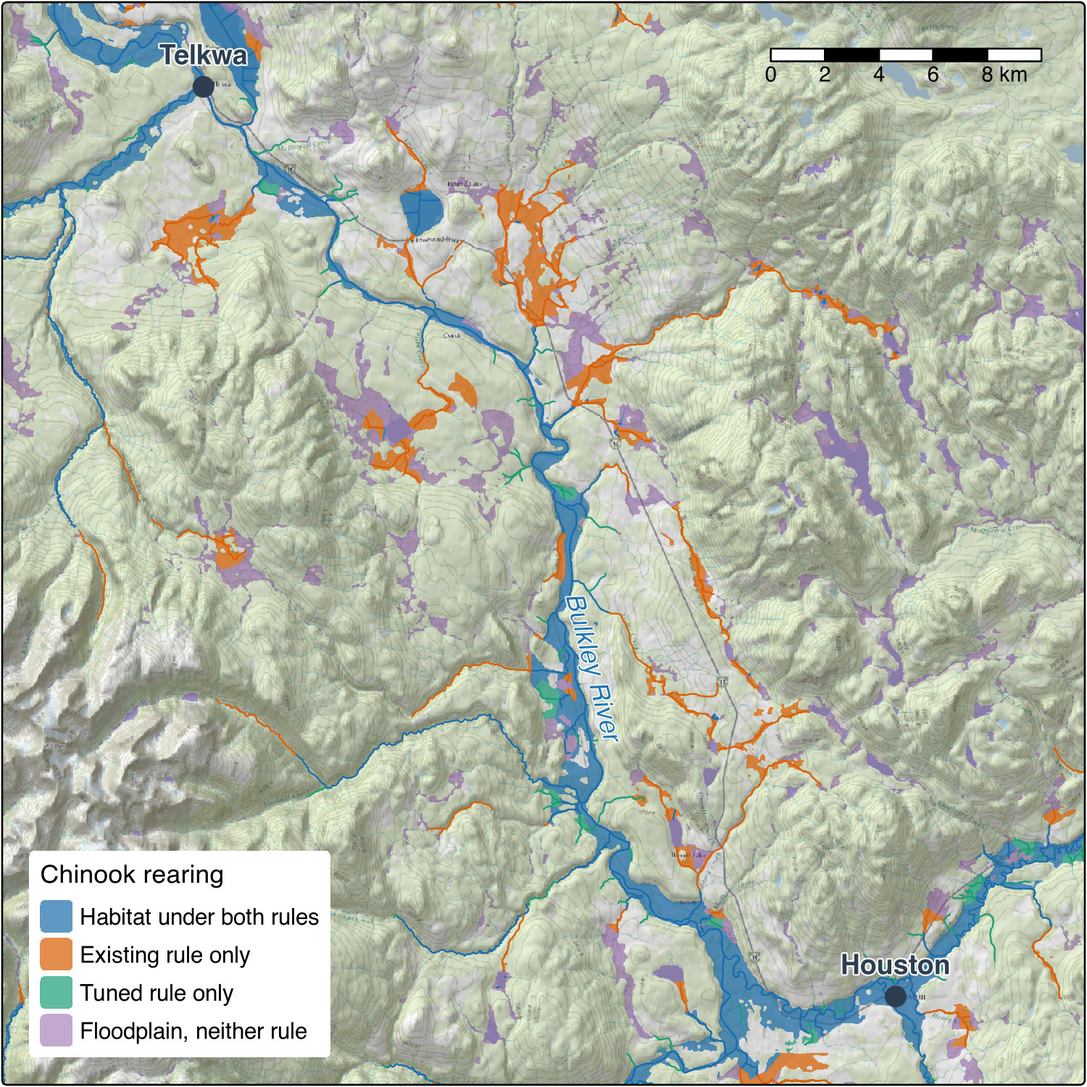
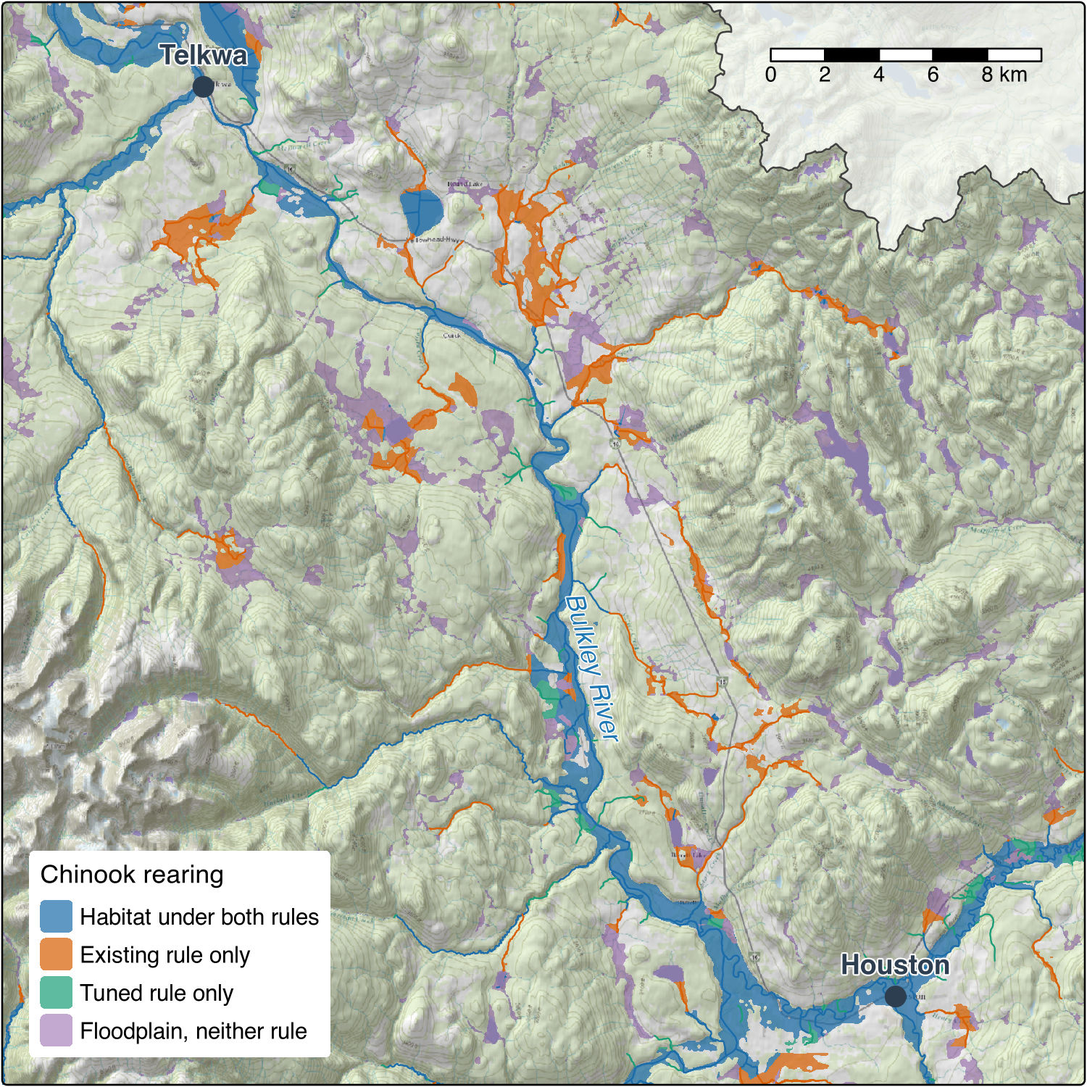
Code-check round 5 fixes: fade the knowledge map too; town markers from the committed helper (#65)
The knowledge map's floodplain stops at the Bulkley and Morice groups, so its
Babine corner now fades like link's, through one helper both scripts share. The
town inset was 4 km, which left Telkwa and Houston out of a fresh draw; at 2.5 km
both maps draw them. link's caption calls the purple reaches' barrier a documented dam.

Claude-Session: https://claude.ai/code/session_015Jk6BLCJR6akr2dUiE5A8m

Changed region(s): [[0.644, 0.0, 1.0, 0.2453], [0.7053, 0.9813, 0.736, 1.0]]

diff --git a/planning/archive/2026-11-issue-65-open-source-knowledge-figures/review-round5.md b/planning/archive/2026-11-issue-65-open-source-knowledge-figures/review-round5.md
@@ -1,0 +1,65 @@
+# Code check, round 5, #65
+
+Reviewed the round 4 fix (b1ba659) and re-checked the whole revision `git diff fcb1990..HEAD` on 2026-11-02. No database was reachable, so the link script was read but not run. Public sources used: bcdata (`FWA_WATERSHED_GROUPS_POLY`), the stac-floodplains-bc API at images.a11s.one, knowledge's local `data/compare/gpkg/CH_rear.gpkg`, and the towns cache in this session's scratchpad.
+
+## Checklist read
+
+- `code-check-python.md`: in full. The diff has no Python.
+- `code-check.md`: the prose of every H3 under `## Mechanisms`, without table rows or evidence blocks.
+- `code-check-spatial.md`: in full for "`st_intersection()` / `st_difference()` return a GEOMETRYCOLLECTION", "`st_union()` fails after `st_transform()` of a source mixing XY and XYZ rings", "`sf::st_read()` promotes a mixed POLYGON/MULTIPOLYGON layer", "A GDAL failure partway through `sf::st_read()`" and "A name is not a key". The other headings were read by index line only.
+- `code-check-r.md` and `code-check-shell.md`: index only. The fix adds no R idiom beyond sf calls, and no shell.
+
+## Findings
+
+- **[severity: fragile]** scripts/figure_knowledge-bulkley.R:34-35 and 47, shown in content/project/open_source_software/knowledge_bulkley.jpg. The knowledge map has the same gap that round 4 found on the link map, in the floodplain layer.
+  - **What it reads:** the floodplain is read only for `groups <- c("bulk", "morr")`, but the window is the link map's: BULK 1363.9 km², MORR 146.3 km² and BABL 89.8 km² (bcdata, 1600.0 km² in all).
+  - **No BABL floodplain exists:** the catalogue has no BABL item. `items/babl_all_ff04` returns 404, while `bulk_all_ff04` and `morr_all_ff04` return 200, and stac_floodplains_bc's `floodplains_coverage.png` shows no BABL.
+  - **What the map shows:** the top-right corner has no fill. Under the legend entry "Floodplain, neither rule", a reader takes that as ground that is not floodplain. In fact it is ground the catalogue does not map.
+  - **The lines are not affected:** knowledge's segments in the window include 1,473 BABL segments. All of them are FALSE for `rearing_default`, `rearing_tuned` and `accessible`, so leaving them undrawn agrees with the data.
+  - **Not measured:** how much floodplain the corner would hold. The corner has lakes and flats, and purple patches on the BULK side run up to the divide.
+  - **Possible fix:** the same 65% white fade outside BULK and MORR, read from fwapg as in the link script, with the link caption's sentence added to this caption. The page's two maps would then match.
+  - **Rule:** code-check.md "A guard's scope, escape hatches, and remedies" (a literal set, here the floodplain groups, covers what the data was expected to hold, not the window it is drawn in)
+
+- **[severity: fragile]** content/project/open_source_software/knowledge_bulkley.jpg against scripts/figure_helpers.R:47. The committed knowledge map was not drawn by the committed helper, so the re-run that the finding above needs will change it.
+  - **The image:** it shows town dots and labels for Telkwa and Houston.
+  - **The helper:** `towns_of()` keeps only towns inside `st_buffer(w, -4000)`. That inset runs x 929000–961000 and y 1045000–1077000.
+  - **Where the towns are:** from the towns cache, Telkwa is at y 1077872, 0.9 km outside the inset, and Houston is at y 1044262, 0.7 km outside it. Every cache in the session scratchpads has the same coordinates.
+  - **Measured:** running the committed filter on the cache returns 0 towns. That is why `link_bulkley.jpg`, drawn by this helper at b1ba659, has no town markers.
+  - **Where the image's version came from:** the helper and the JPEG were committed together in 63f90d5. The post's recipe filters with `st_intersects(towns, w)` and no inset (`habitat-rules_fig-build.R:180`), which would explain it.
+  - **Effect:** a redraw loses both markers. Both captions say "Telkwa to Houston", and after a redraw only the basemap's small labels would carry those names.
+  - **Possible fixes:** decide the inset, for example 2500 m as `river_labels()` uses, or place the label to the side of the dot, and redraw both maps from the same helper.
+  - **Rule:** code-check.md "A shared working tree, and what generators leave in it" (running a generator is not committing what it generated; here the committed artifact predates the committed generator)
+
+## The fix itself: checked, no finding
+
+- **Mask covers exactly BABL:** the window holds three groups and no others. bcdata gives 89.8 + 146.3 + 1363.9 = 1600.0 km². Separately, knowledge's segments in `w_big` carry only BABL, BULK and MORR. So `st_difference(st_buffer(w, 1000), st_union(BULK, MORR))` is BABL plus the 1 km ring outside the window, and the ring is cropped by `bbox = st_bbox(w)`. The buffer's rounded corners lie outside `w` and do not matter.
+- **Image:** a pixel diff of `link_bulkley.jpg` before and after b1ba659 (grey, threshold 40) changes only in the blocks at x ≥ 900 px and y < 450 px. There is no sliver along the BULK/MORR boundary, so the union dissolved cleanly. The faded area runs about x 971–1500 px and y 0–345 px, which matches BABL's part of the window (x 950892–965000, y 1071798–1081000 at 37.5 px/km). "Faded corner" is accurate: it is a 14 by 9 km piece at the top right, bounded by the divide.
+- **Nothing on the fade implies habitat:** the segment query keeps BULK and MORR, so no segment sits in BABL. No town passes the inset. The river label sits on the Bulkley main stem. Only the scale bar sits on the fade.
+- **Geometry and CRS:** fwapg's `fwa_watershed_groups_poly.geom` is a 2D MultiPolygon in SRID 3005, read through PostGIS with that SRID. bcdata returns XY POLYGON for the same groups. `w` is EPSG:3005, so a CRS mismatch would make `st_difference` stop rather than draw something wrong. There is no Z and no `st_transform()` before the union, so the XY/XYZ union trap does not apply. A GEOMETRYCOLLECTION result would affect QGIS, not tmap, and the committed render drew the polygon.
+- **Guard:** `nrow(wsg) != 2` holds for one row per group, which is the table's shape.
+- **Header:** it now names the group outlines from fwapg, link's schema over PG*, the river name from fwapg and the towns from the BC Data Catalogue. That is everything the script reads. The basemap tiles are named in the helper's header.
+- **Round 4's premise, re-checked:** knowledge's `accessible_stored` is `h.accessible` from a link schema's `streams_habitat_ch` (`knowledge/R/compare_rules.R:297`). It puts every BABL segment in the window as not accessible to chinook, while BABL group-wide has 14,528 accessible segments. So the old blank corner was probably not wrong, on that run at least. Knowledge's schema need not be `LINK_SCHEMA`. The fade and its sentence are still true and cost nothing.
+
+## Not raised
+
+- The fade carries a thin dark edge although `col = NA`. It reads as the group boundary, which the caption's sentence explains.
+
+## The mechanism, and where it reaches on this page
+
+**Mechanism:** a figure's data population is one set (watershed groups, a catalogue's items, a raster's footprint), and the window it is drawn in is chosen separately. Where the window runs past the population, the blank ground looks like the figure's "none" class: no access, no floodplain, no change. The fix is to find each figure's population and compare it with its extent.
+
+| Figure | Drawn by | Data population | Drawn extent past it? |
+|---|---|---|---|
+| `link_bulkley.jpg` | `scripts/figure_link-bulkley.R` | link run, BULK + MORR | Yes, BABL 89.8 km². **Faded and captioned** (b1ba659) |
+| `knowledge_bulkley.jpg` | `scripts/figure_knowledge-bulkley.R` | segments: knowledge gpkg, all groups. Floodplain: catalogue, BULK + MORR only | Yes. **Floodplain blank over BABL 89.8 km²** (finding 1). The lines are covered |
+| `wet_discharge_source.png` | copied, wet pkgdown | the Freshwater Atlas, province-wide | No. Extent is BC |
+| `flooded_scenarios.jpg` | copied, new_graphiti post `map_scenarios("kotl", …)` | KOTL floodplain | Slightly. KOTL is 763.1 of 784 km². The other 21 km² is south of 49°N, where the KOTL layers still carry 5.6 of the 25.7 km² of the window there. The basemap draws the border, so the stakes are low. Not raised |
+| `drift_change.jpg` | copied, drift | one floodplain reach | No. The floodplain outline is drawn and in the legend |
+| `cd_temperature_years.png` | copied, cd article | three named groups, 1950 on | Not a map. The caption names the groups and years |
+| `fly_history.jpg` | copied, fly | two photo footprints | No. Each panel is filled by its photo |
+| `floodplains_coverage.png` | copied, stac_floodplains_bc | the catalogue's groups | No. Showing coverage is its purpose |
+| `floodplains_attribution.png` | copied, floodplains | BULK | No. Drawn inside the BULK outline |
+| `lidar_maxan.jpg` | copied, stac_pointcloud_bc | LidarBC tiles | No. Data fills the frame except the masked lake |
+| `uav_cover.jpg` | copied, stac_uav_bc | one orthomosaic | Photo. Not applicable |
+
+The post's own chinook maps (`habitat-rules_chinook-*.jpg`) share the knowledge map's window and floodplain read. They are not on this page.

diff --git a/content/project/open_source_software/index.md b/content/project/open_source_software/index.md
@@ -26,7 +26,7 @@ link runs on our stream network engine, fresh, which places surveys on streams, 
 
 <img src="/img/hex/fresh.png" alt="fresh" loading="lazy" style="display: block; width: 60px; margin: 0 0 1rem 0;">
 
-![Chinook habitat potential and access on the Bulkley River, Telkwa to Houston. Orange reaches sit above a road or rail crossing that is or may be a barrier, and purple reaches above a dam. The faded corner is outside the Bulkley and Morice watershed groups mapped here. Basemap: Esri World Topographic Map and World Shaded Relief.](link_bulkley.jpg)
+![Chinook habitat potential and access on the Bulkley River, Telkwa to Houston. Orange reaches sit above a road or rail crossing that is or may be a barrier, and purple reaches above a documented dam. The faded corner is outside the Bulkley and Morice watershed groups mapped here. Basemap: Esri World Topographic Map and World Shaded Relief.](link_bulkley.jpg)
 
 <img src="/img/hex/wet.png" alt="wet" loading="lazy" style="float: right; width: 100px; margin: 0 0 1rem 1.5rem;">
 
@@ -48,7 +48,7 @@ Our evidence tool, knowledge, tests habitat rules against what we know about whe
 
 - [Documentation](https://www.newgraphenvironment.com/knowledge/) | [Source](https://github.com/NewGraphEnvironment/knowledge) | [How a rule is tested](https://www.newgraphenvironment.com/knowledge/articles/habitat_thresholds.html) | [Chinook rearing, worked through](https://www.newgraphenvironment.com/knowledge/articles/chinook_rearing.html)
 
-![Chinook rearing on the Bulkley River, Telkwa to Houston, comparing link's existing rule with the rule tuned in knowledge. The habitat on each stream is carried onto the floodplain beside it by flooded (below). Floodplain: stac_floodplains_bc. Basemap: Esri World Topographic Map and World Shaded Relief.](knowledge_bulkley.jpg)
+![Chinook rearing on the Bulkley River, Telkwa to Houston, comparing link's existing rule with the rule tuned in knowledge. The habitat on each stream is carried onto the floodplain beside it by flooded (below). The faded corner is outside the Bulkley and Morice watershed groups mapped here. Floodplain: stac_floodplains_bc. Basemap: Esri World Topographic Map and World Shaded Relief.](knowledge_bulkley.jpg)
 
 ---
 
